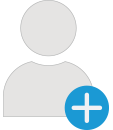
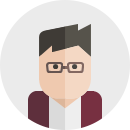
style(help.messages): 헬프 메시지 이미지 교체
- 토픽에 모든 멤버가 있을 경우 초대하기 modal: 멤버를 초대하세요 이미지 교체
- 메시지를 입력하세요 이미지 교체
- 파일을 업로드하세요 이미지 교체
- 멤버를 토픽에 초대하세요 이미지 교체

#JND-3562

diff --git a/client/app/main.css b/client/app/main.css
@@ -737,12 +737,12 @@ input[type="button"] {
 }
 .help-enter-a-message {
   background: url('../assets/images/center/help-enter-a-message.png') no-repeat;
-  width: 93px;
-  height: 88px;
+  width: 130px;
+  height: 130px;
 }
 .help-invite-members {
   background: url('../assets/images/center/help-invite-members.png') no-repeat;
-  width: 113px;
+  width: 130px;
   height: 130px;
 }
 .help-send-invitations {
@@ -750,7 +750,7 @@ input[type="button"] {
 }
 .help-upload-a-file {
   background: url('../assets/images/center/help-upload-a-file.png') no-repeat;
-  width: 75px;
+  width: 100px;
   height: 80px;
 }
 

diff --git a/client/app/modal/topics/topic_invite/topic.invite.html b/client/app/modal/topics/topic_invite/topic.invite.html
@@ -9,7 +9,7 @@
 <div class="modal-container invite-channel non-selectable">
   <div class="invite-channel-full" ng-if="!isInviteChannel">
     <div class="modal-body form-invite-body cursor_pointer"  ng-click="onInviteTeamClick();">
-      <div class="image help-invite-members"></div>
+      <div class="image help-send-invitations"></div>
       <div class="invite-members-desc">
         <span ng-bind-html="inviteTeamMsg1"></span>
         <span ng-bind-html="inviteTeamMsg2"></span>

diff --git a/client/app/modal/topics/topic_invite/topic.invite.css b/client/app/modal/topics/topic_invite/topic.invite.css
@@ -6,6 +6,14 @@
 	margin-top: 32px;
 	margin-bottom: 20px;
 }
+.modal-dialog .invite-channel .help-send-invitations {
+	display: inline-block;
+	width: 130px;
+	height: 130px;
+	background-size: 130px 130px;
+	margin-top: 32px;
+	margin-bottom: 20px;
+}
 
 .modal-dialog .invite-member-filter-container {
 	margin-bottom: 20px;
